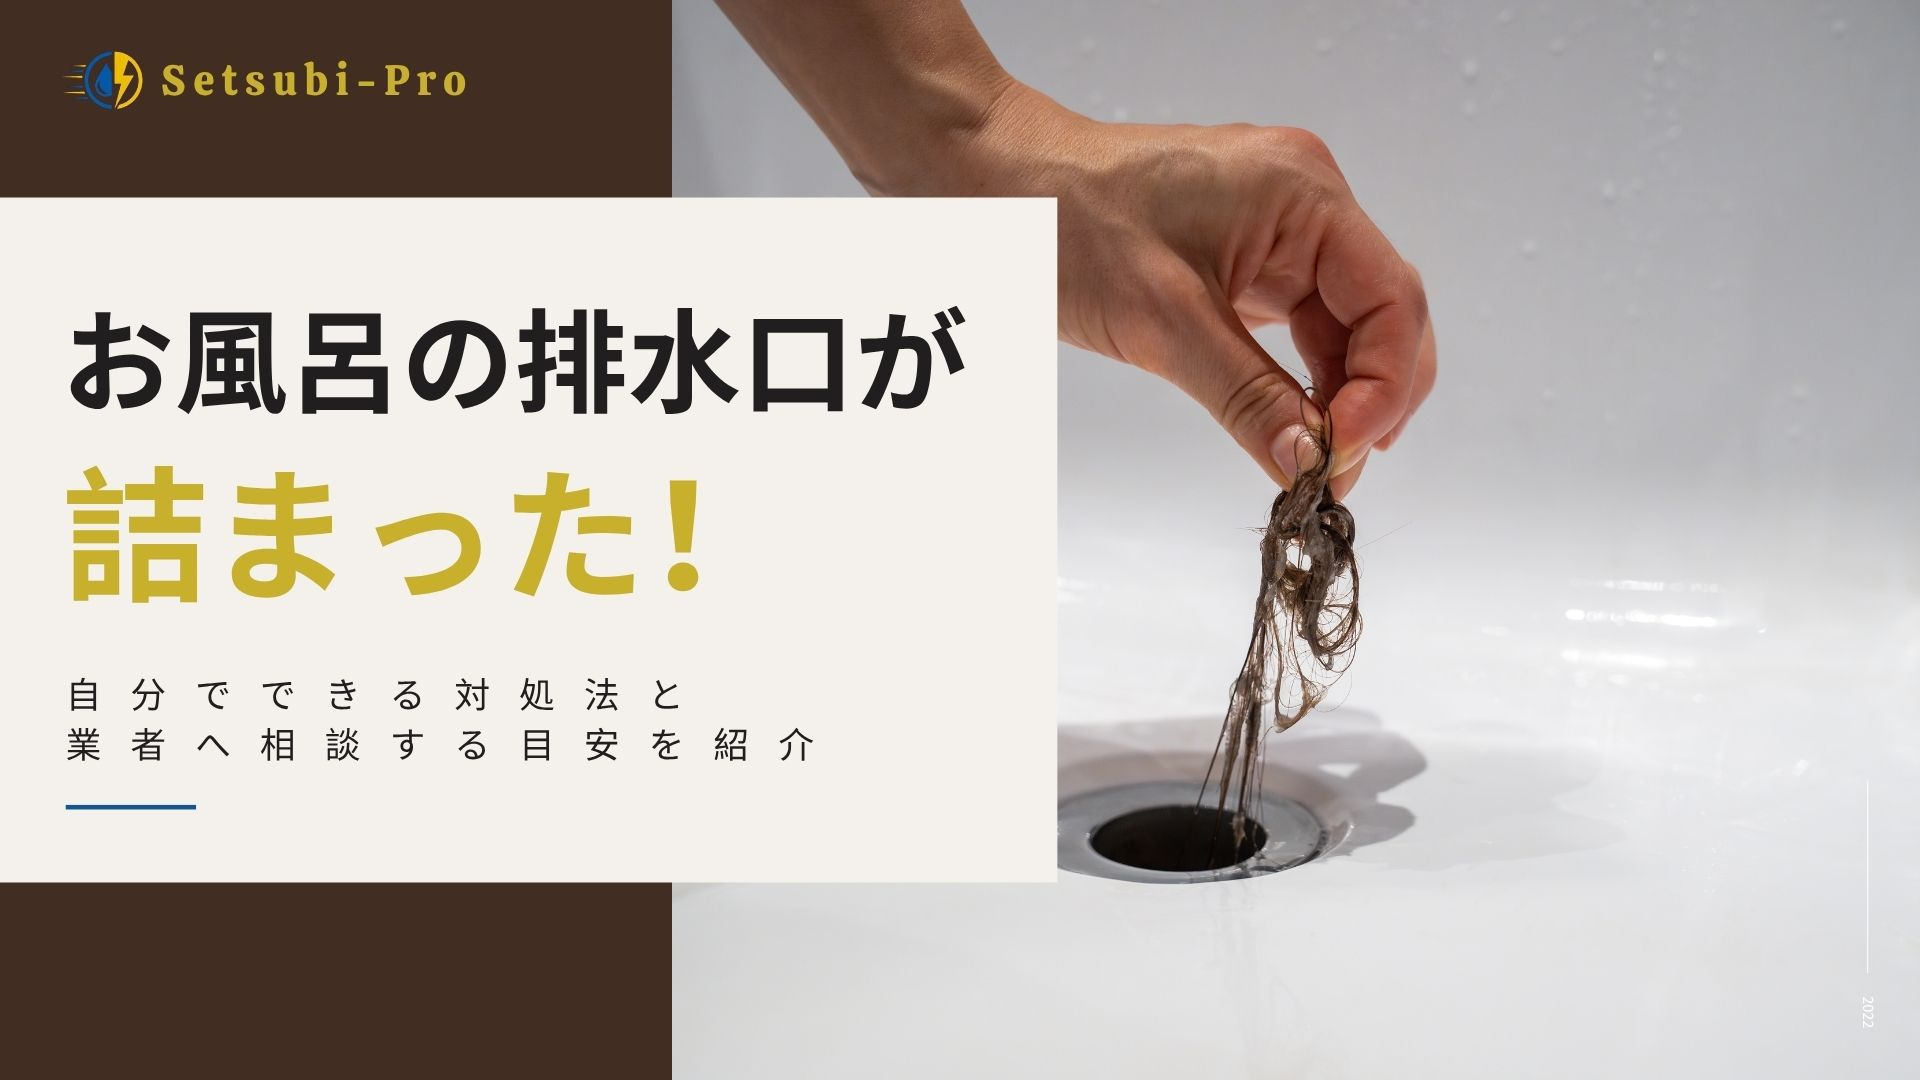
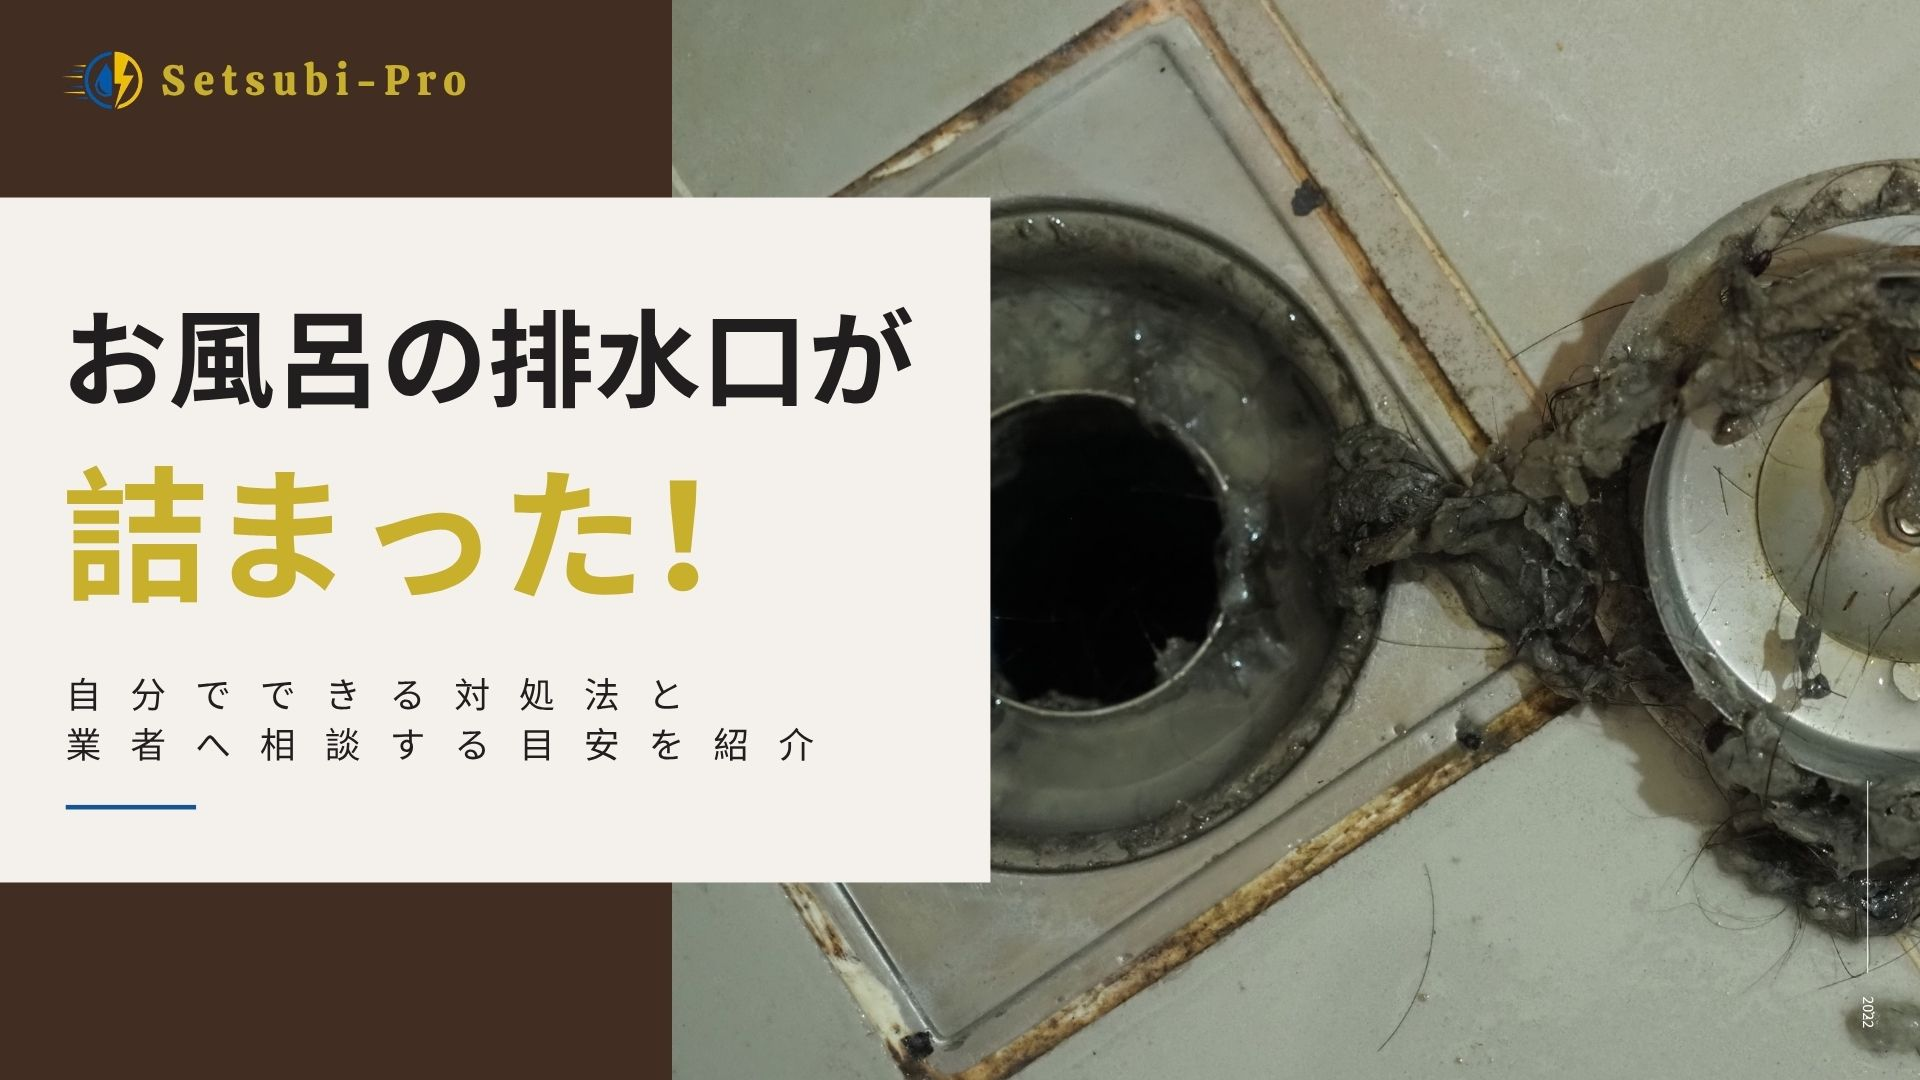
Publish: お風呂の排水口が詰まったら？自分でできる解消法とプロに頼むべき症状

diff --git a/src/content/blog/bath-drain-clog-how-to-fix.md b/src/content/blog/bath-drain-clog-how-to-fix.md
@@ -6,7 +6,7 @@ publishedDate: 2026-06-05
 category: water
 subcategory: "お風呂"
 image: /images/SEO/bath-drain-clog-how-to-fix/thumbnail.jpg
-imageAlt: "bathtub-drain-clogged-thumbnail"
+imageAlt: "bathroom-drain-clogged-thumbnail"
 ---
 
 お風呂の排水口に髪の毛が絡まっていたり、水の流れが急に悪くなったりした経験はありませんか？毎日使うお風呂だからこそ、排水のトラブルはすぐに解決したいものです。しかし、原因をしっかり見極めずに強力な薬剤を使ったり、無理に異物を押し込んだりすると、かえって状況を悪化させてしまうこともあります。